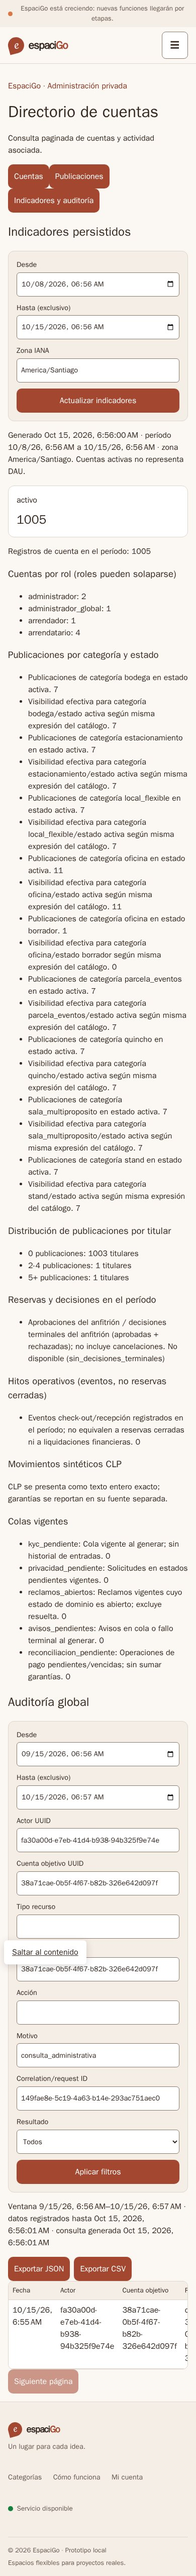
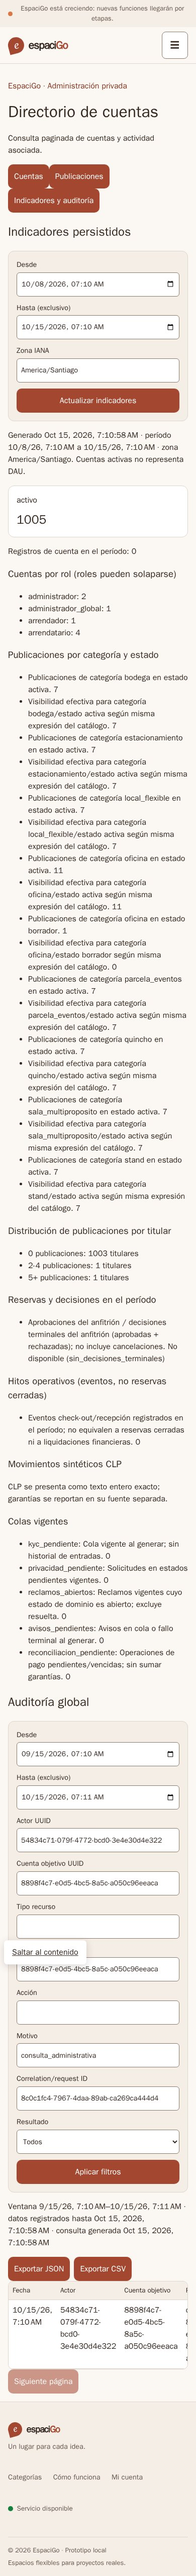
docs(frontend): refresh GADM-03 report evidence

Changed region(s): [[0.6462, 0.8741, 0.8, 0.9054], [0.3692, 0.8741, 0.4, 0.9054]]

diff --git a/planning/administracion_global/matriz_capacidades_pruebas_cortes.md b/planning/administracion_global/matriz_capacidades_pruebas_cortes.md
@@ -25,15 +25,15 @@ Por instrucción explícita de este chat, GADM-03 está en desarrollo desde `ori
 
 ## Evidencia GADM-03 (2026-10-15)
 
-Código probado: `0572b70d02c2f8c88d06e073942ec10f4cd20b70` (rama `codex/marketplace/feature/gadm-03-kpi-account-audit`), partiendo de `6a721adc96ac5192e6bfcf8b672d052e272ed048`. La migración V59 añade columnas para objetivo e instante de registro e índices de auditoría; V1–V58 quedan intactas. El recorrido usa Compose FE-14 con proyecto, volumen y cuentas sintéticas efímeros; no referencia `espacigo_pgdata`; elimina la base/credenciales al salir.
+Código probado: `436b52695043dd572e4bbb5981c43d3936ea145c` (rama `codex/marketplace/feature/gadm-03-kpi-account-audit`), partiendo de `6a721adc96ac5192e6bfcf8b672d052e272ed048`. La migración V59 añade columnas para objetivo e instante de registro e índices de auditoría; V1–V58 quedan intactas. El recorrido usa Compose FE-14 con proyecto, volumen y cuentas sintéticas efímeros; no referencia `espacigo_pgdata`; elimina la base/credenciales al salir.
 
 | Validación | Entorno / alcance | Resultado |
 | --- | --- | --- |
 | Go / dominio | `go test ./internal/adminglobal/... ./internal/identity/...`; runner FE-14 con PostgreSQL 18 | Unitarias pasan. Integración obligatoria `TestGlobalBootstrapDirectoryAndLastMasterConcurrency` pasa sin `TEST_DATABASE_URL` omitido; incluye 404/auditoría de destino ausente, paginación con empates y filtros, export JSON/CSV con corte, conciliación KPI SQL con decisiones aprobadas/rechazadas, reclamo abierto/resuelto y CLP exacto. Migrador pasa desde base vacía, V56 y V58 con checksums previos. |
-| Contrato y Angular | `npm run api:check`, `npm run lint`, `npm test -- --watch=false` | OpenAPI/SDK y TypeScript pasan; lint/SCSS/arquitectura pasan; 39 archivos y 303 pruebas Angular. |
+| Contrato y Angular | `npm run api:check`, `npm run lint`, `npm test -- --watch=false`, `npm run build` | OpenAPI/SDK y TypeScript pasan; lint/SCSS/arquitectura, build SSR/navegador pasan; 39 archivos y 306 pruebas Angular, incluidas alertas accesibles KPI/auditoría/export, errores 401/403, recuperación por reintento y descarte de respuestas obsoletas entre filtros/sesiones. |
 | Recorrido conectado FE-14 | Playwright Chromium contra Angular y API Go, PostgreSQL/PostGIS de Compose aislado | 1/1 recorrido conectado pasa: panel KPI contra DB, filtros de actor/destino/recurso/motivo/correlación, paginación keyset sin repetición y snapshot fijo, evento tardío excluido de JSON/CSV, ambos formatos exportados con el mismo corte, lookup de destino inexistente 404 con rechazo auditado, descarga CSV real y rol no global rechazado. Logs sin correos ni contraseñas. |
-| Rendimiento de directorio | Misma DB desechable; 1.000 cuentas sintéticas no autenticables; consulta por prefijo y página de 25 con `EXPLAIN (ANALYZE, BUFFERS, FORMAT JSON)` | Plan en `evidencia/gadm_03/gadm03-account-query-plan.txt`: 1,194 ms; 1.043 bloques compartidos en caché, 0 físicos y 0 temporales en la raíz. Medida del contenedor de ensayo, no SLO de producción. |
-| Capturas / medidas | `evidencia/gadm_03/fe14_gadm_03_admin_{mobile,desktop}.{jpg,json}` | Móvil 390×844, documento 390×5125; escritorio 1365×900, documento 1365×2879; sin desbordamiento horizontal. Sidecars registran HEAD `0572b70d02c2f8c88d06e073942ec10f4cd20b70`; capturas sin credenciales de ensayo. |
+| Rendimiento de directorio | Misma DB desechable; 1.000 cuentas sintéticas no autenticables; consulta por prefijo y página de 25 con `EXPLAIN (ANALYZE, BUFFERS, FORMAT JSON)` | Plan en `evidencia/gadm_03/gadm03-account-query-plan.txt`: 1,265 ms; 1.043 bloques compartidos en caché, 0 físicos y 0 temporales en la raíz. Medida del contenedor de ensayo, no SLO de producción. |
+| Capturas / medidas | `evidencia/gadm_03/fe14_gadm_03_admin_{mobile,desktop}.{jpg,json}` | Móvil 390×844, documento 390×5125; escritorio 1365×900, documento 1365×2879; sin desbordamiento horizontal. Sidecars registran HEAD `436b52695043dd572e4bbb5981c43d3936ea145c`; capturas sin credenciales de ensayo. |
 | Límites | Contratos OpenAPI, datos de producto | Cobros/devoluciones y comisión son datos de ensayo; disponibilidad o cola no se transforma en cero cuando la fuente no existe. No se presentan DAU/visitas, pagos reales, aceptación de producto ni capacidad GCP. |
 
 La matriz registra verificaciones técnicas, no aceptación de producto. GADM-04 sigue en espera de la fusión de GADM-03 y una instrucción sucesora.
